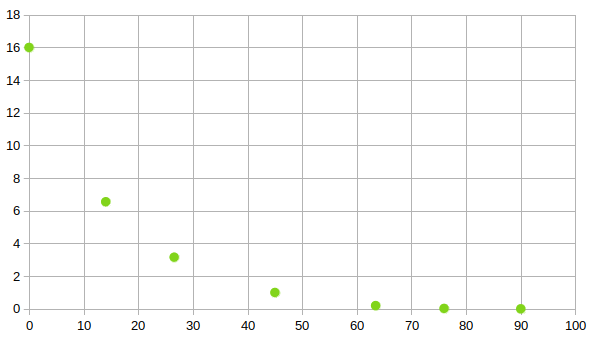
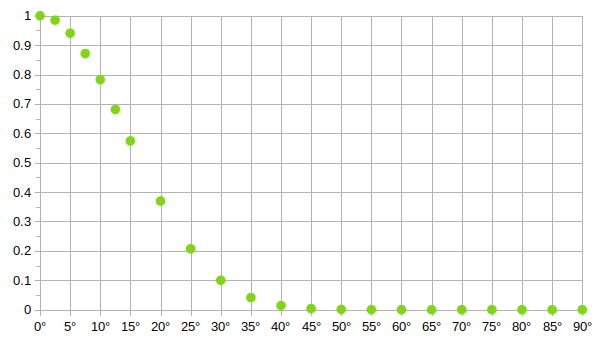
updated readme details about the handling of directionallity

diff --git a/README.md b/README.md
@@ -6,10 +6,8 @@ Currently works only on x11 desktops.
 Use it from commandline as follows:  
 `node focus-next.js DIRECTION`  
 Where DIRECTION is one of:
-* left
-* up
-* right
-* down
+* left, up, right, down
+* left-up, left-down, right-up, right-down
 
 (mind the lower case!)
 
@@ -57,33 +55,38 @@ The user defines the focus in relation to the current window where probably also
 
 **weighting**  
 Prioritize to focus windows that are positioned along the focus direction to honor the users wish for setting a focus in that direction. 
-So even if a window is close and almost in the correct direction (e.g.: between ±45-90°), it should not be selected, if 
-there is a more distanced but also more fitting window for the given direction (like the range ±0-30°).
+So even if a window is closest, but is about 45° (or more) away from the choosen direction, it should not be selected. Instead more distanced windows but within a closer angle range (ideally 0° - 30°) should be selected.
 
-For this reason we simply give a higher weight to candidate windows that are closer to the direction that the user defined. If a candidate windows center point can be reached by 0° deviation from the direction the user specified, it gets a weight of 16. Starting by 45° there is a penalty given (see the weight distribution below).
+In the example depicted below, window **A** is focused and `focus-next right` is called. In this case we want 
+explicitly to focus **C** and **not B**. 
+
+The reason is: C is close to 0° in right-direction from A. Window B on the other hand deviates about 45° from the right direction and thus gets a lower prio. 
+```
+(user: 'focus-next right')
+┏━━━┓*                           ┏━━━┓ ?
+┃ A ┃  --►                       ┃ C ┃
+┗━━━┛                            ┗━━━┛
+             ┏━━━┓ ?          
+             ┃ B ┃           
+             ┗━━━┛       
+         
+        
+ ┏━━━┓ 
+ ┃ D ┃
+ ┗━━━┛        
+         
+```
+
+To implement this we simply give a higher weight to candidate windows that are closer to the direction that the user defined. If a candidate windows center point can be reached by 0° deviation from the direction the user specified, it gets a weight of 1. At angles of about 45° the wieght is almost 0.
 
 ![Weights for different deviation angles](doc/direction_weights.png)
 
-x-axis shows the deviation in degree (of a potential focus candidate)  
-y-axis show the given weight  
-after 45 degree we actually go below 1 and thus imply a negative weight (or penalty)
+*x-axis* shows the deviation angle in degree (of a potential focus candidate)  
+*y-axis* show the resulting weight  
 
 
 **weighting problem**  
-```
-X----                     X---- 
-| A |                     | C |
------    X----            -----
-         | B |         
-         -----          
-        
-         
-        
- X----
- | D |
- -----        
-         
-```
+
 If **A** is focused, `focus-next right` should focus **C** next instead of **B**. 
 However, this might lead to a problem: if the user now actually wants to focus 
 **B**, it might not be possible: in 'right' direction **C** would be selected 
